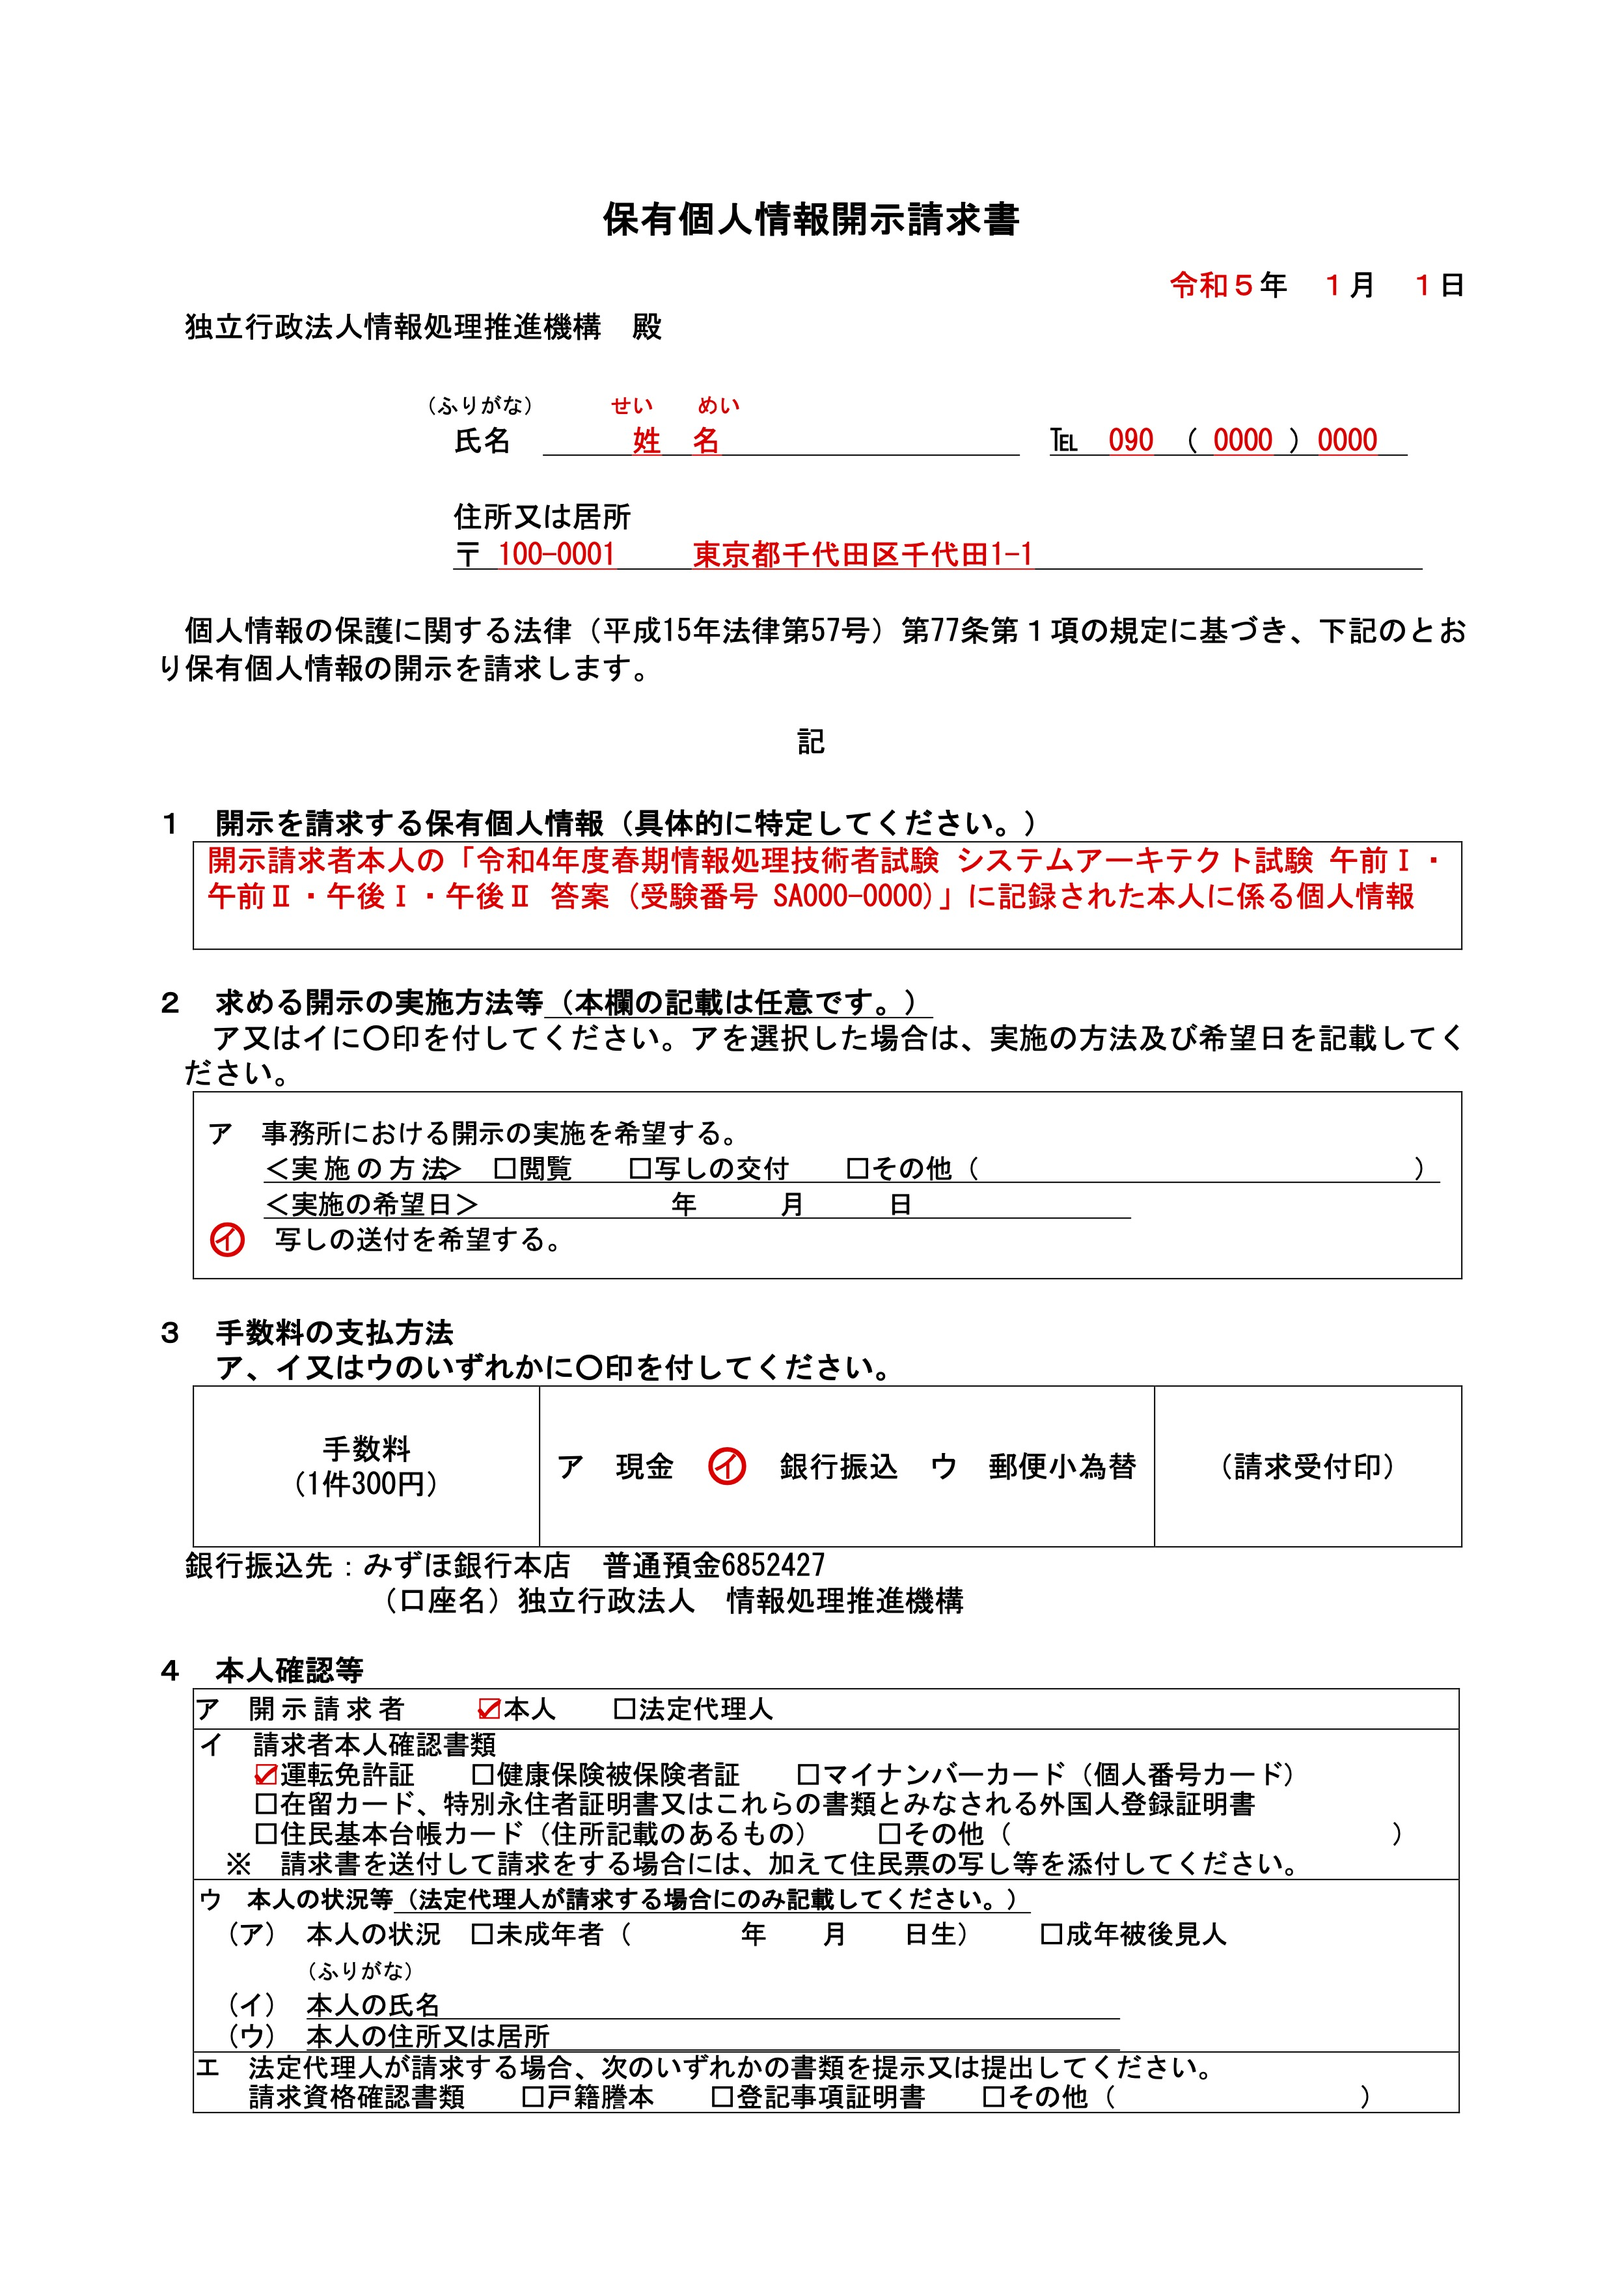
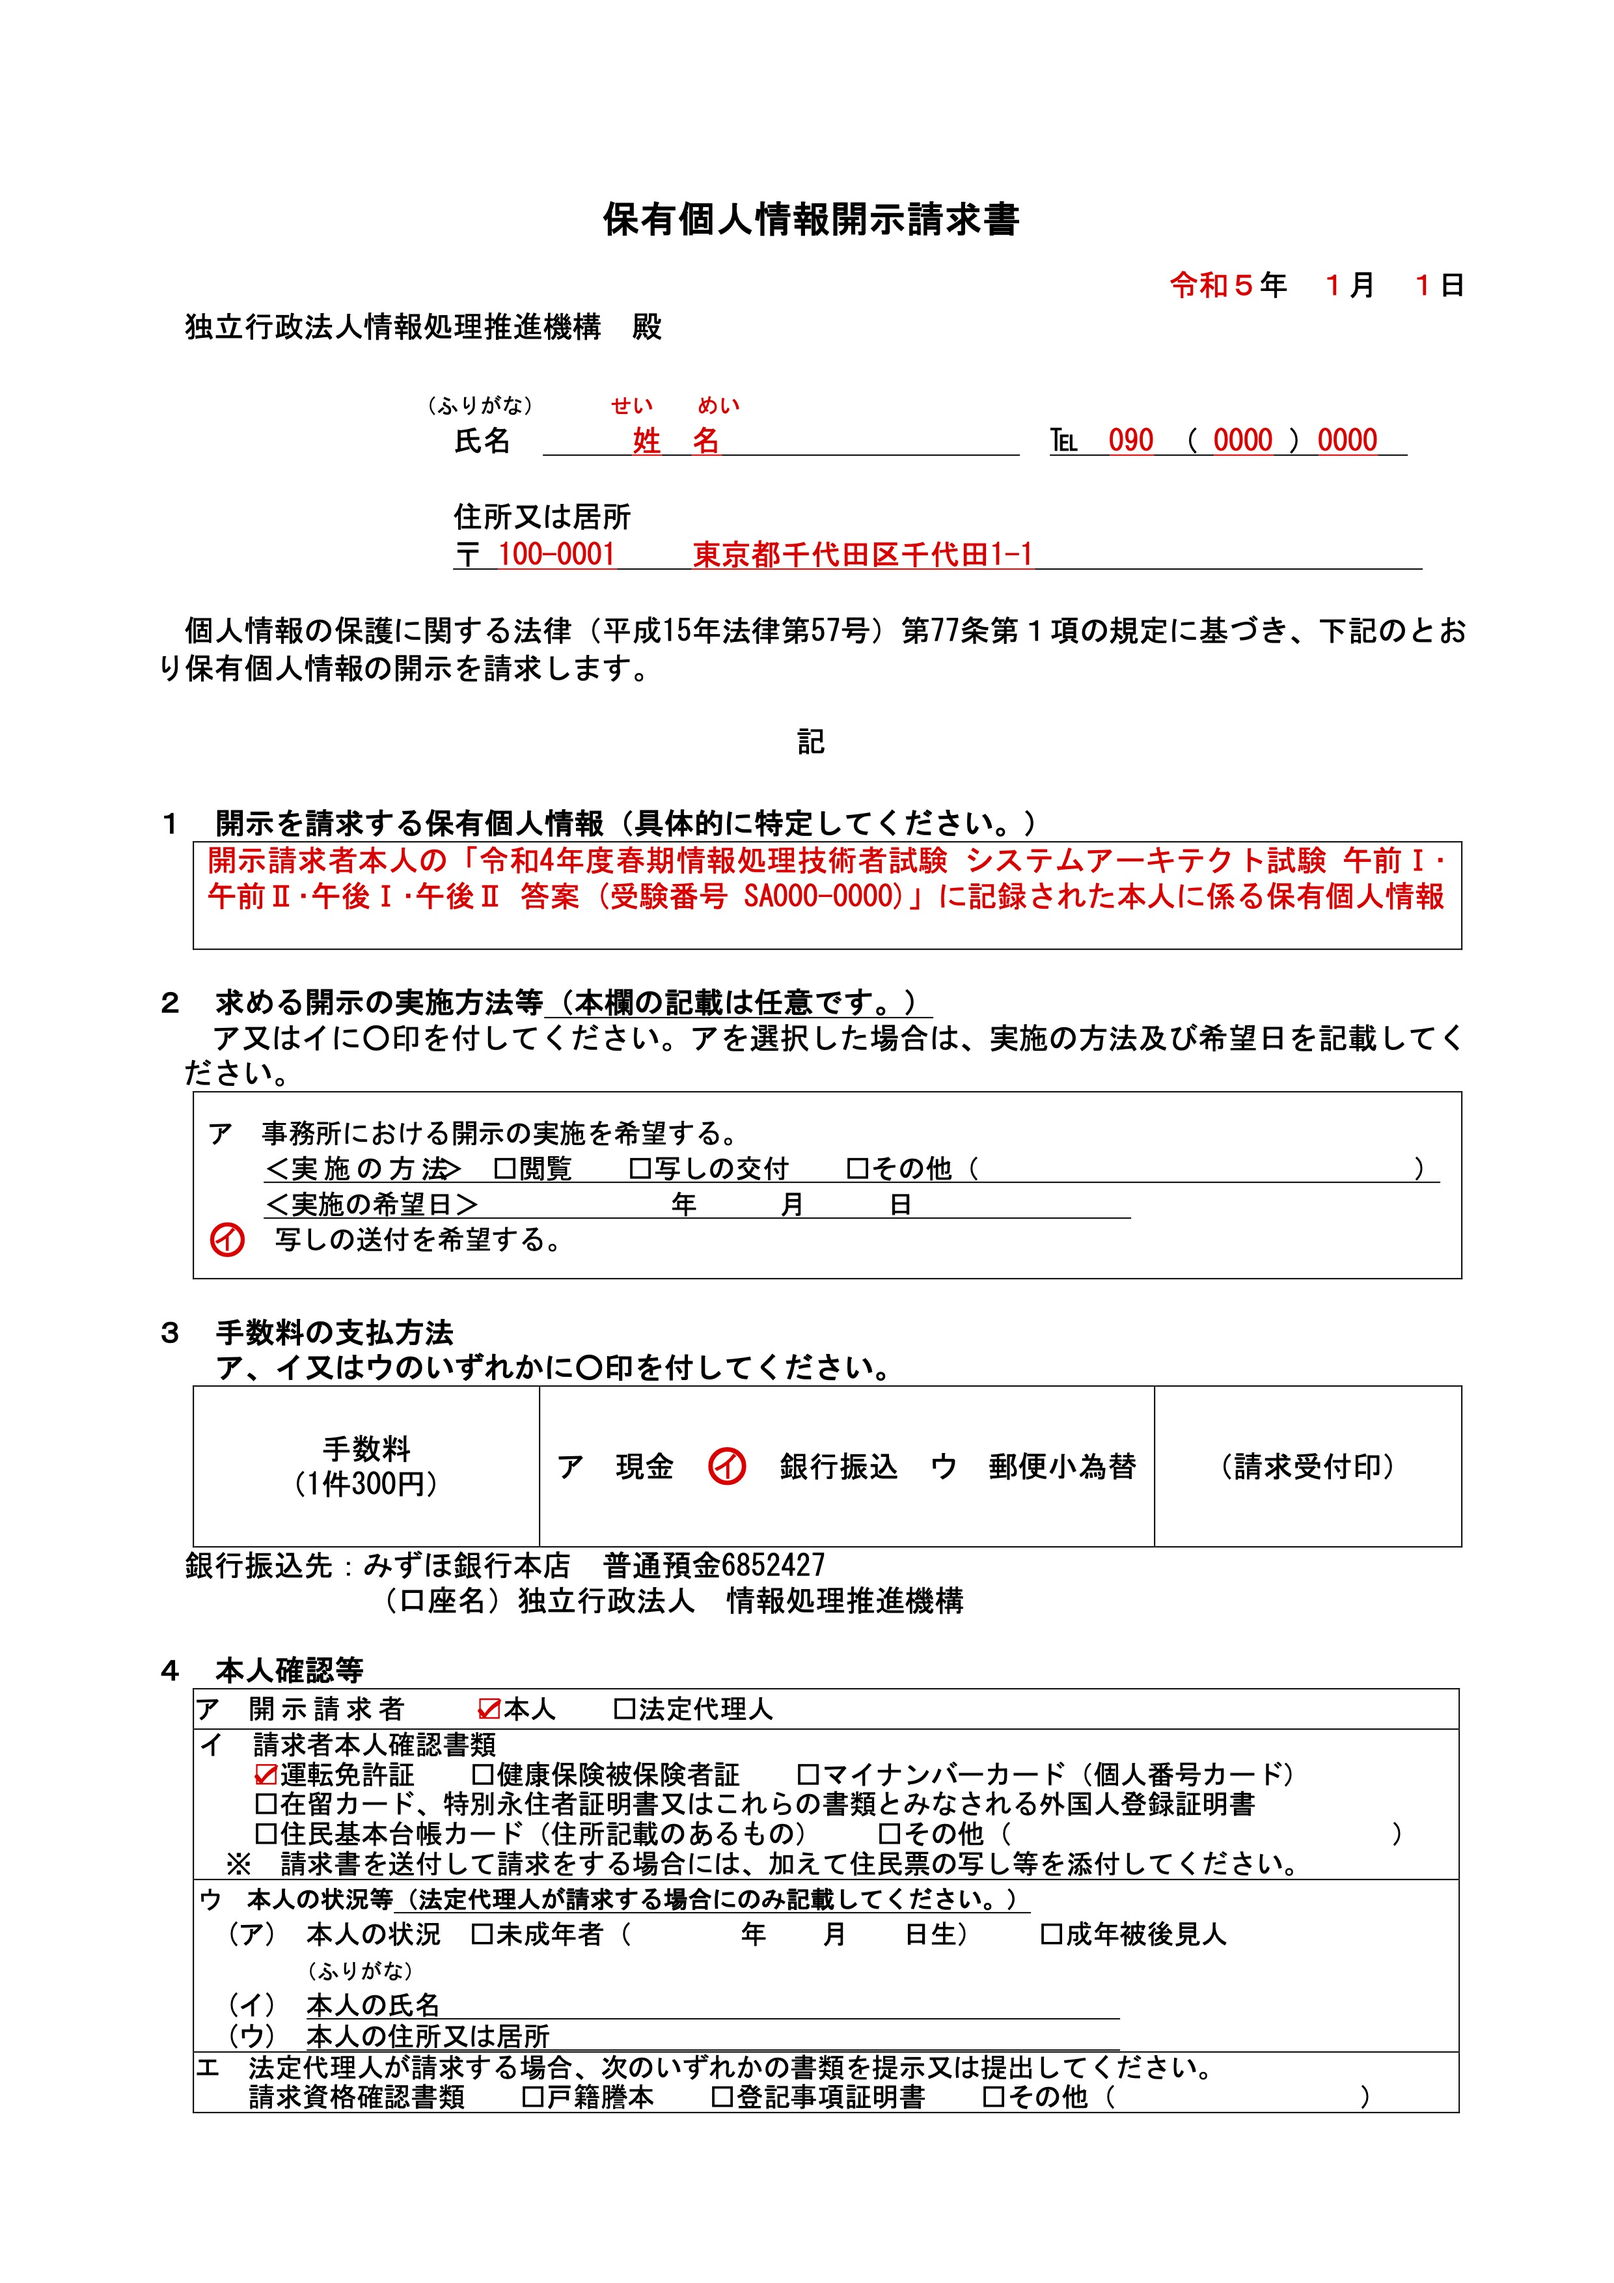
2023-02-01: 文書名の調整、記載例の追加

Changed region(s): [[0.1863, 0.373, 0.9004, 0.404]]

diff --git a/content/blog/2023-02-01/index.md b/content/blog/2023-02-01/index.md
@@ -66,11 +66,11 @@ featuredImage: ./paper.jpg
 
 「開示を請求する個人情報」は次の要領で、`<>` 内を適宜記入する。
 
-> 開示請求者本人の「<試験期> 情報処理技術者試験 <試験区分> <開示を希望する科目> 答案 (受験番号 <自分の受験番号>)」に記録された本人に係る個人情報
+> 開示請求者本人の「<試験期> 情報処理技術者試験 <試験区分> <開示を希望する科目> 答案 (受験番号 <自分の受験番号>)」に記録された本人に係る保有個人情報
 
 情報処理安全確保支援士試験 (SC) に関しては、試験制度が情報処理技術者試験とは別になっているので、次のように記入する。
 
-> 開示請求者本人の「<試験期> 情報処理安全確保支援士試験 <開示を希望する科目> 答案 (受験番号 <自分の受験番号>)」に記録された本人に係る個人情報
+> 開示請求者本人の「<試験期> 情報処理安全確保支援士試験 <開示を希望する科目> 答案 (受験番号 <自分の受験番号>)」に記録された本人に係る保有個人情報
 
 「開示を請求する個人情報」欄は自然言語によるファジーなクエリも利用可能で、対象が特定できればどのような表現でも申請はできるが、
 向こうから後ほど送られてくる「開示決定通知書」では上記の表記になっているので、それに合わせておくと齟齬がないと思われる。
@@ -123,7 +123,10 @@ featuredImage: ./paper.jpg
 午前I・午前II・午後Iで各 1 枚、午後IIが 8 枚程度となるので、無料の範囲に収まる。
 -->
 
+![開示の実施方法申出書の記載例](./example2.jpg)
+
 申出書の記入に際しては、記載例が一緒に送られてくるので、それを見ながらやれば作成できる。
+「文書番号」「日付」「同封する郵便切手等の額」の部分は、開示決定通知書を参照して記入する。
 申出書を作成したら、「3. 開示請求書の提出」と同様に、次のものを [個人情報保護方針] の最下部の「お問い合わせ先」に提出する。
 
 - 作成した「開示の実施方法等申出書」
